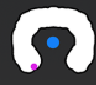
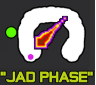
Toggle for rotation 1 and 2 is working as should

diff --git a/src/areas/Zulrah/utils.ts b/src/areas/Zulrah/utils.ts
@@ -13,6 +13,7 @@ import r1six from '../../assets/rotations/r1/six.png';
 import r1seven from '../../assets/rotations/r1/seven.png';
 import r1eight from '../../assets/rotations/r1/eight.png';
 import r1nine from '../../assets/rotations/r1/nine.png';
+import r1ten from '../../assets/rotations/r1/ten.png';
 
 // rotation 2 phases
 import r2one from '../../assets/rotations/r2/one.png';
@@ -24,6 +25,7 @@ import r2six from '../../assets/rotations/r2/six.png';
 import r2seven from '../../assets/rotations/r2/seven.png';
 import r2eight from '../../assets/rotations/r2/eight.png';
 import r2nine from '../../assets/rotations/r2/nine.png';
+import r2ten from '../../assets/rotations/r2/ten.png';
 
 // rotation 3 phases
 import r3one from '../../assets/rotations/r3/one.png';
@@ -36,6 +38,7 @@ import r3seven from '../../assets/rotations/r3/seven.png';
 import r3eight from '../../assets/rotations/r3/eight.png';
 import r3nine from '../../assets/rotations/r3/nine.png';
 import r3ten from '../../assets/rotations/r3/ten.png';
+import r3eleven from '../../assets/rotations/r3/eleven.png';
 
 // rotation 4 phases
 import r4one from '../../assets/rotations/r4/one.png';
@@ -49,6 +52,7 @@ import r4eight from '../../assets/rotations/r4/eight.png';
 import r4nine from '../../assets/rotations/r4/nine.png';
 import r4ten from '../../assets/rotations/r4/ten.png';
 import r4eleven from '../../assets/rotations/r4/eleven.png';
+import r4twelve from '../../assets/rotations/r4/twelve.png';
 
 interface RotationObject {
   [key: string]: string;
@@ -65,7 +69,7 @@ export const rotations: RotationObject = {
   4: r4,
 };
 
-interface NinePhases {
+interface TenPhases {
   1: string;
   2: string;
   3: string;
@@ -75,14 +79,15 @@ interface NinePhases {
   7: string;
   8: string;
   9: string;
-}
-
-interface TenPhases extends NinePhases {
   10: string;
 }
 
 interface ElevenPhases extends TenPhases {
   11: string;
+}
+
+interface TwelvePhases extends TenPhases {
+  12: string;
 }
 
 interface phasesObject {
@@ -104,6 +109,7 @@ export const phases: phasesObject = {
     7: r1seven,
     8: r1eight,
     9: r1nine,
+    10: r1ten,
   },
   r2: {
     1: r2one,
@@ -115,6 +121,7 @@ export const phases: phasesObject = {
     7: r2seven,
     8: r2eight,
     9: r2nine,
+    10: r2ten,
   },
   r3: {
     1: r3one,
@@ -127,6 +134,7 @@ export const phases: phasesObject = {
     8: r3eight,
     9: r3nine,
     10: r3ten,
+    11: r3eleven,
   },
   r4: {
     1: r4one,
@@ -140,5 +148,6 @@ export const phases: phasesObject = {
     9: r4nine,
     10: r4ten,
     11: r4eleven,
+    12: r4twelve,
   },
 };

diff --git a/src/areas/Zulrah/components/PhaseContainer.tsx b/src/areas/Zulrah/components/PhaseContainer.tsx
@@ -1,4 +1,4 @@
-import React, { useReducer } from 'react';
+import React, { useReducer, useEffect } from 'react';
 
 import { phases } from '../utils';
 
@@ -7,6 +7,7 @@ interface Props {
   currentRotation: number;
   handlePhaseChange: (key: string, mathType: string) => void;
   handleRotationChange: (rotation: number, reset?: boolean) => void;
+  shouldRest: boolean;
 }
 
 interface State {
@@ -24,10 +25,11 @@ const initialState: State = {
 
 interface Action {
   type: string;
-  payload: State;
+  payload?: State;
 }
 
 const UPDATE_ACTION = 'UPDATE_ACTION';
+const RESET = 'RESET';
 
 const reducer = (state: State, action: Action) => {
   const { type, payload } = action;
@@ -38,6 +40,10 @@ const reducer = (state: State, action: Action) => {
         ...state,
         ...payload,
       };
+
+    case RESET:
+      return initialState;
+
     default:
       return state;
   }
@@ -48,9 +54,27 @@ const PhaseContainer = ({
   currentRotation,
   handlePhaseChange,
   handleRotationChange,
+  shouldRest,
 }: Props) => {
   const [state, dispatch] = useReducer(reducer, initialState);
   const { img2, img3, img4 } = state;
+
+  useEffect(() => {
+    if (currentRotation === 1 && currentPhase === 4) {
+      dispatch({
+        type: UPDATE_ACTION,
+        payload: { img2: true, img3: false, img4: false },
+      });
+    }
+  }, [currentPhase, currentRotation]);
+
+  useEffect(() => {
+    if (shouldRest) {
+      dispatch({
+        type: RESET,
+      });
+    }
+  }, [shouldRest]);
 
   const rotationKey = `r${currentRotation}`;
   const totalPhases = Object.keys(phases[rotationKey]).length;
@@ -70,8 +94,28 @@ const PhaseContainer = ({
     handlePhaseChange(key, mathType);
   };
 
-  const handleUpdateRotation = (rotation: number, reset?: boolean) => () =>
+  const handleUpdateRotation = (rotation: number, reset?: boolean) => () => {
+    handlePhaseFilter(rotation);
     handleRotationChange(rotation, reset);
+  };
+
+  const handlePhaseFilter = (imgNumber: number) => {
+    if (currentPhase === 2) {
+      if (imgNumber === 1) {
+        dispatch({
+          type: UPDATE_ACTION,
+          payload: { img2: false, img3: false, img4: false },
+        });
+      }
+    }
+
+    if (currentPhase === 4) {
+      dispatch({
+        type: UPDATE_ACTION,
+        payload: { img2: false, img3: false, img4: false },
+      });
+    }
+  };
 
   return (
     <div

diff --git a/src/areas/Zulrah/index.tsx b/src/areas/Zulrah/index.tsx
@@ -7,6 +7,7 @@ class Zulrah extends Component {
   state = {
     currentPhase: 1,
     currentRotation: 1,
+    shouldRest: false,
   };
 
   handlePhaseChange = (key: string, mathType: string) => {
@@ -22,7 +23,7 @@ class Zulrah extends Component {
 
   handleRotationChange = (rotation: number, reset?: boolean) => {
     if (reset) {
-      this.setState({ currentRotation: 1, currentPhase: 1 });
+      this.setState({ currentRotation: 1, currentPhase: 1, shouldRest: true });
       return;
     }
 
@@ -30,7 +31,7 @@ class Zulrah extends Component {
   };
 
   render = () => {
-    const { currentPhase, currentRotation } = this.state;
+    const { currentPhase, currentRotation, shouldRest } = this.state;
 
     return (
       <div
@@ -46,6 +47,7 @@ class Zulrah extends Component {
           currentRotation={currentRotation}
           handlePhaseChange={this.handlePhaseChange}
           handleRotationChange={this.handleRotationChange}
+          shouldRest={shouldRest}
         />
       </div>
     );
